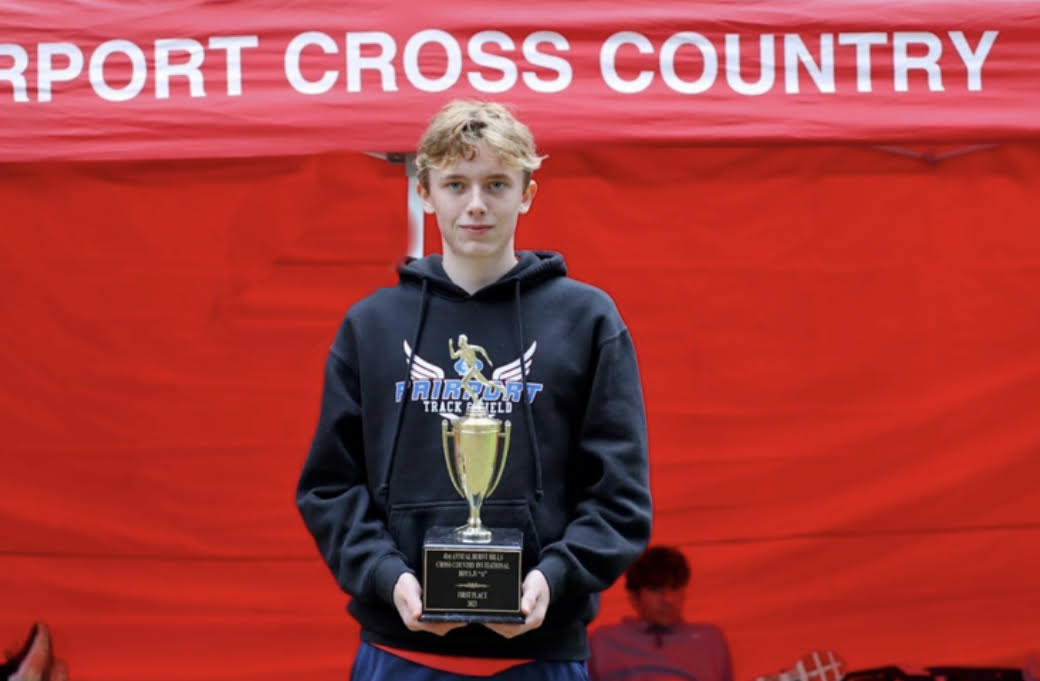
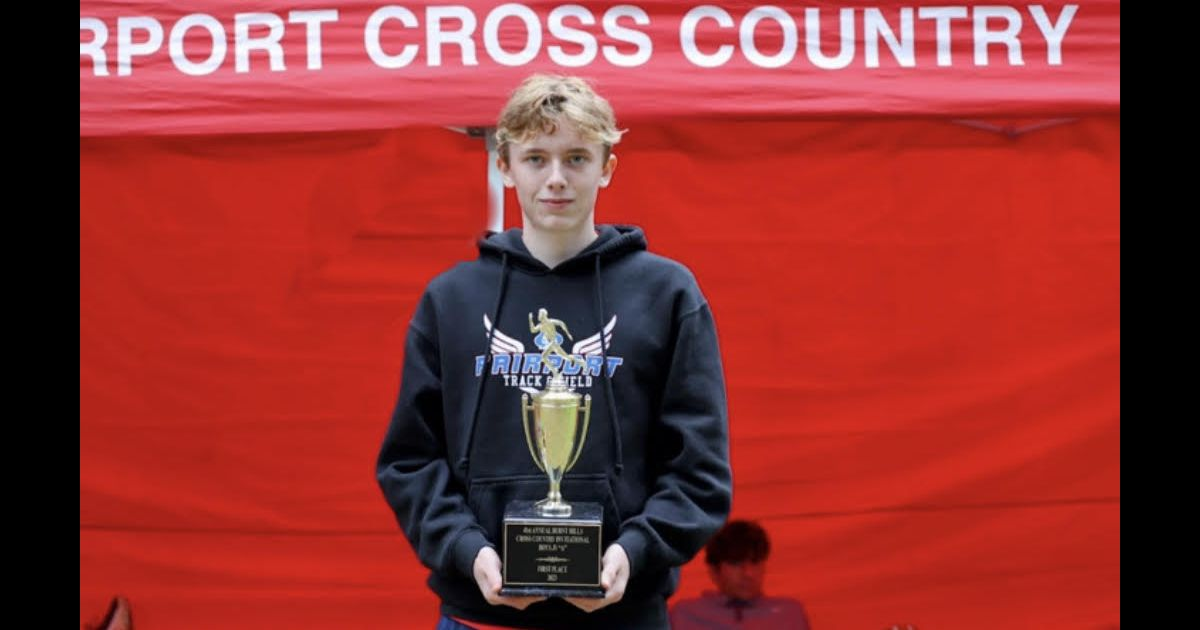
I swear this is the last commit

diff --git a/index.html b/index.html
@@ -9,6 +9,7 @@
   <link rel="preconnect" href="https://fonts.googleapis.com">
   <link rel="preconnect" href="https://fonts.gstatic.com" crossorigin>
   <link href="https://fonts.googleapis.com/css2?family=Oswald" rel="stylesheet">
+  <meta name="og:description" content="Explore Jackson Hickey's personal portfolio showcasing a diverse range of projects, skills, and attributes. Discover more about Declipsonator, Jackson's creative alias, and find contact details to get in touch.">
   <meta name="description" content="Explore Jackson Hickey's personal portfolio showcasing a diverse range of projects, skills, and attributes. Discover more about Declipsonator, Jackson's creative alias, and find contact details to get in touch.">
 
   <meta property="og:title" content="Jackson Hickey">
@@ -16,8 +17,8 @@
   <meta property="og:url" content="https://jacksonhickey.tech">
   <meta property="og:image" content="/img/image.jpg">
   <meta property="og:image:type" content="image/png">
-  <meta property="og:image:width" content="1040">
-  <meta property="og:image:height" content="681">
+  <meta property="og:image:width" content="1200">
+  <meta property="og:image:height" content="630">
 
   <link rel="icon" href="/favicon.ico" sizes="any">
   <link rel="icon" href="/icon.svg" type="image/svg+xml">
